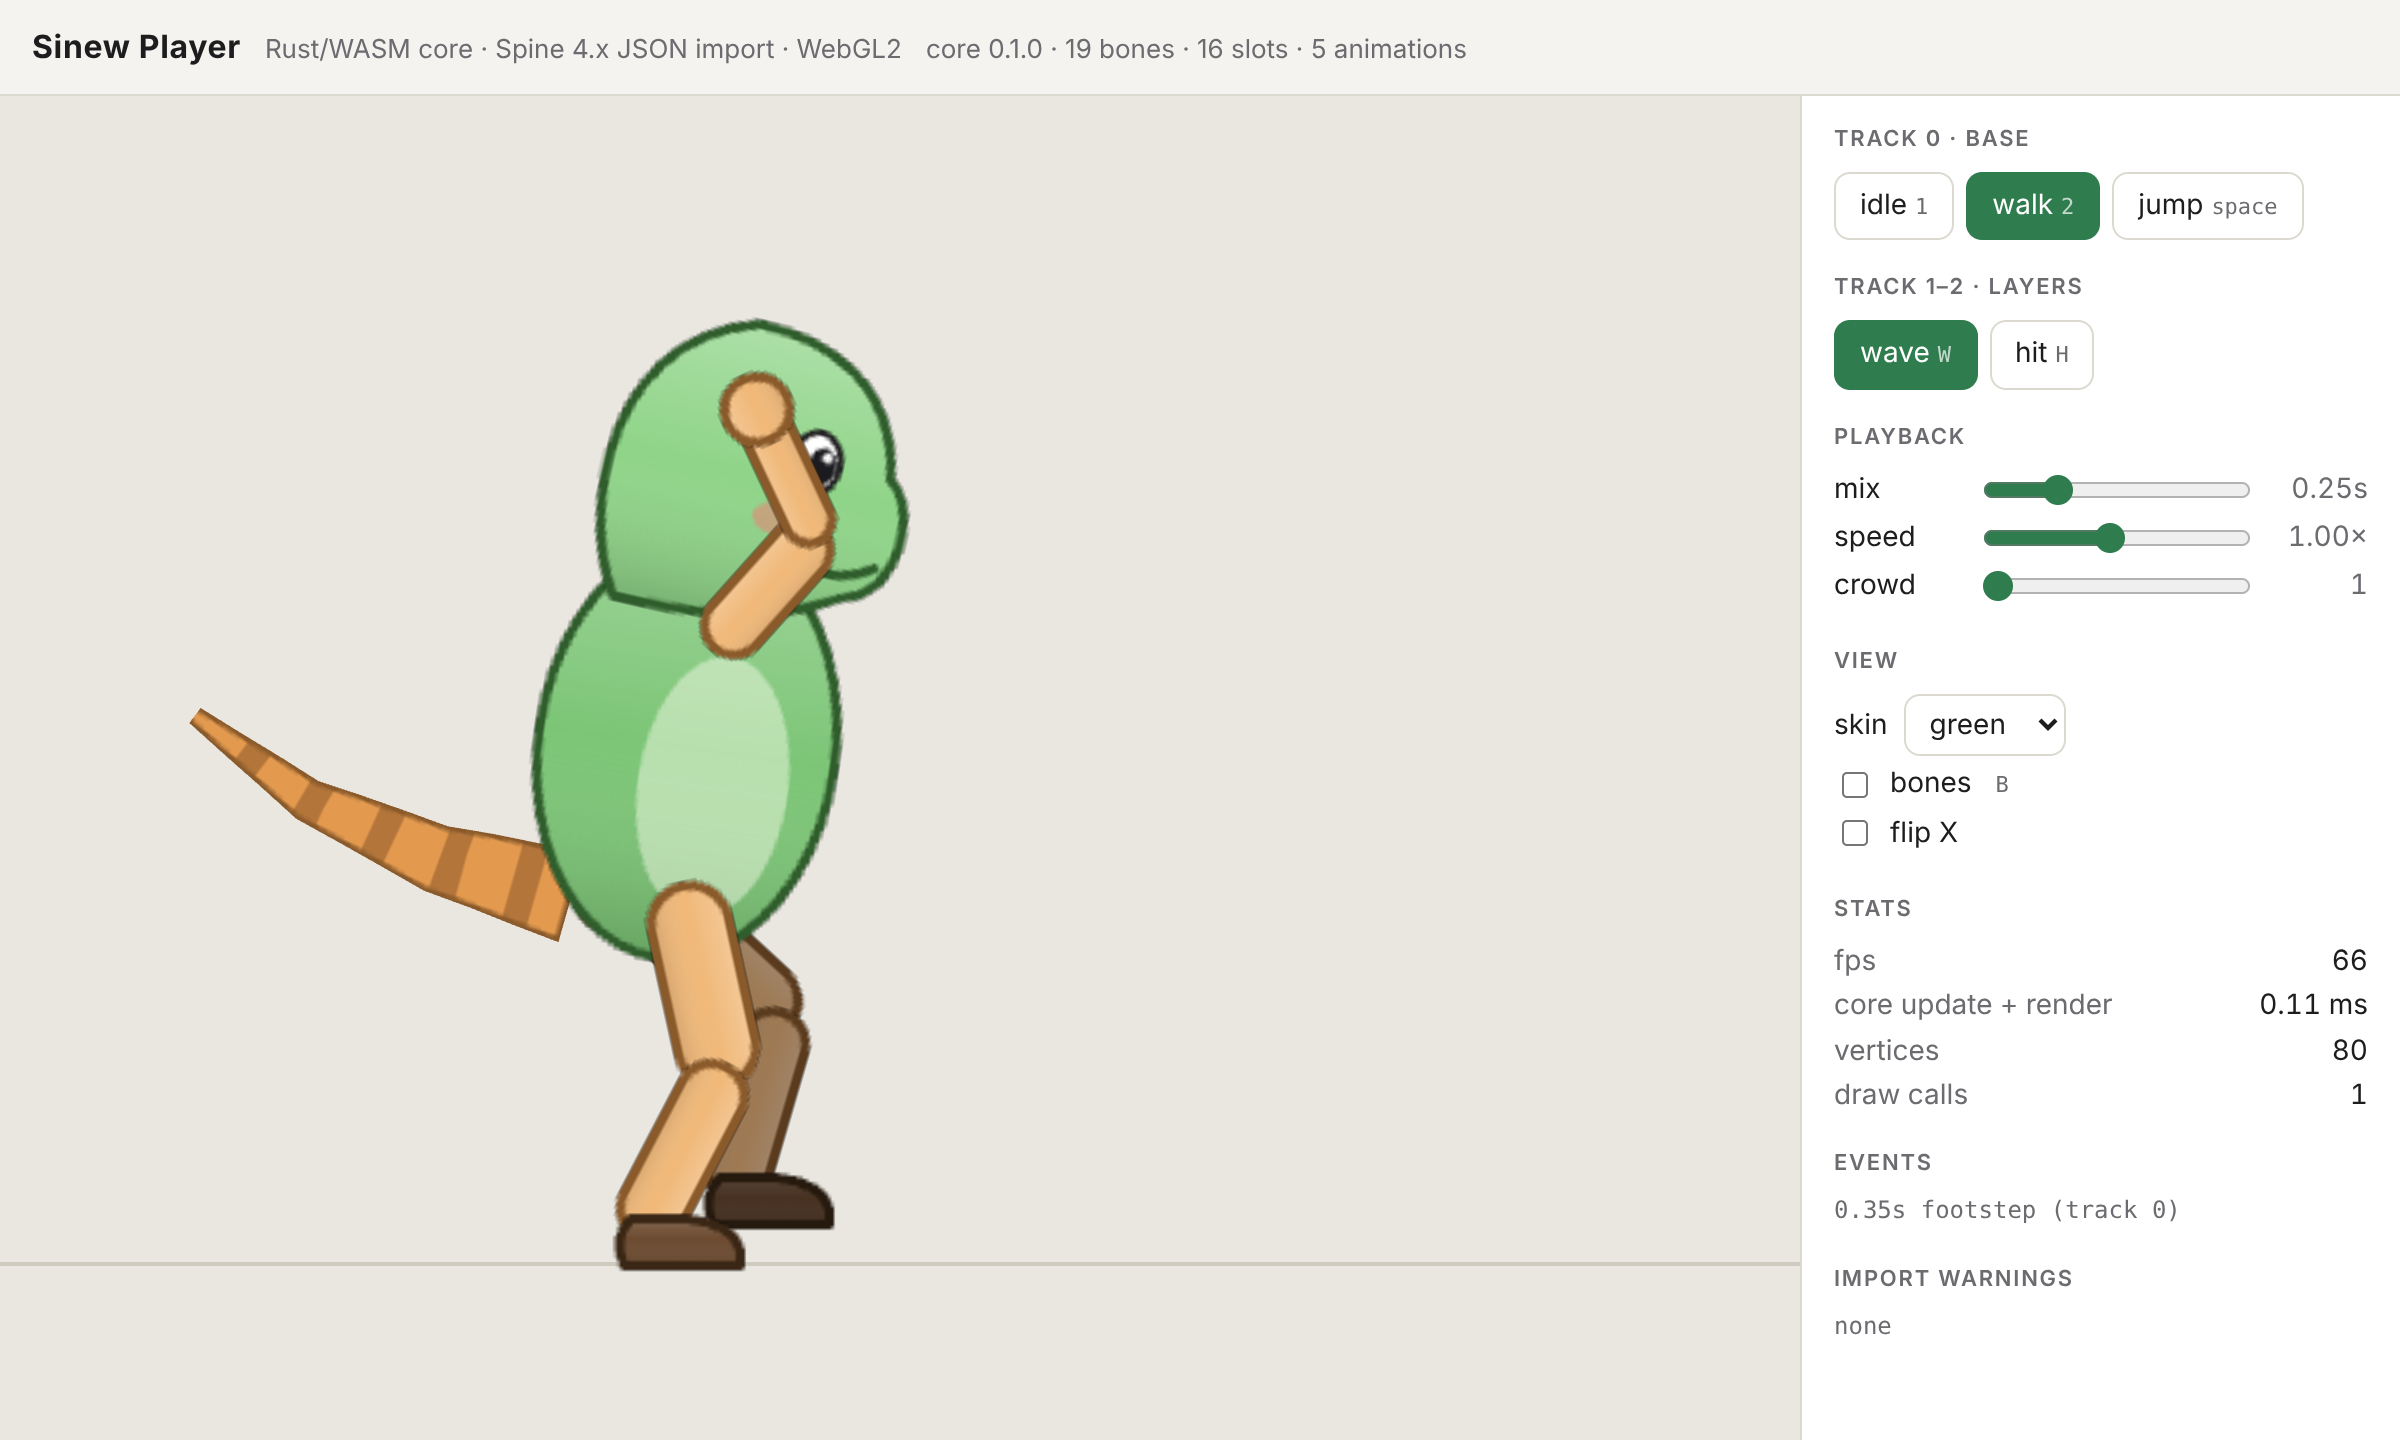
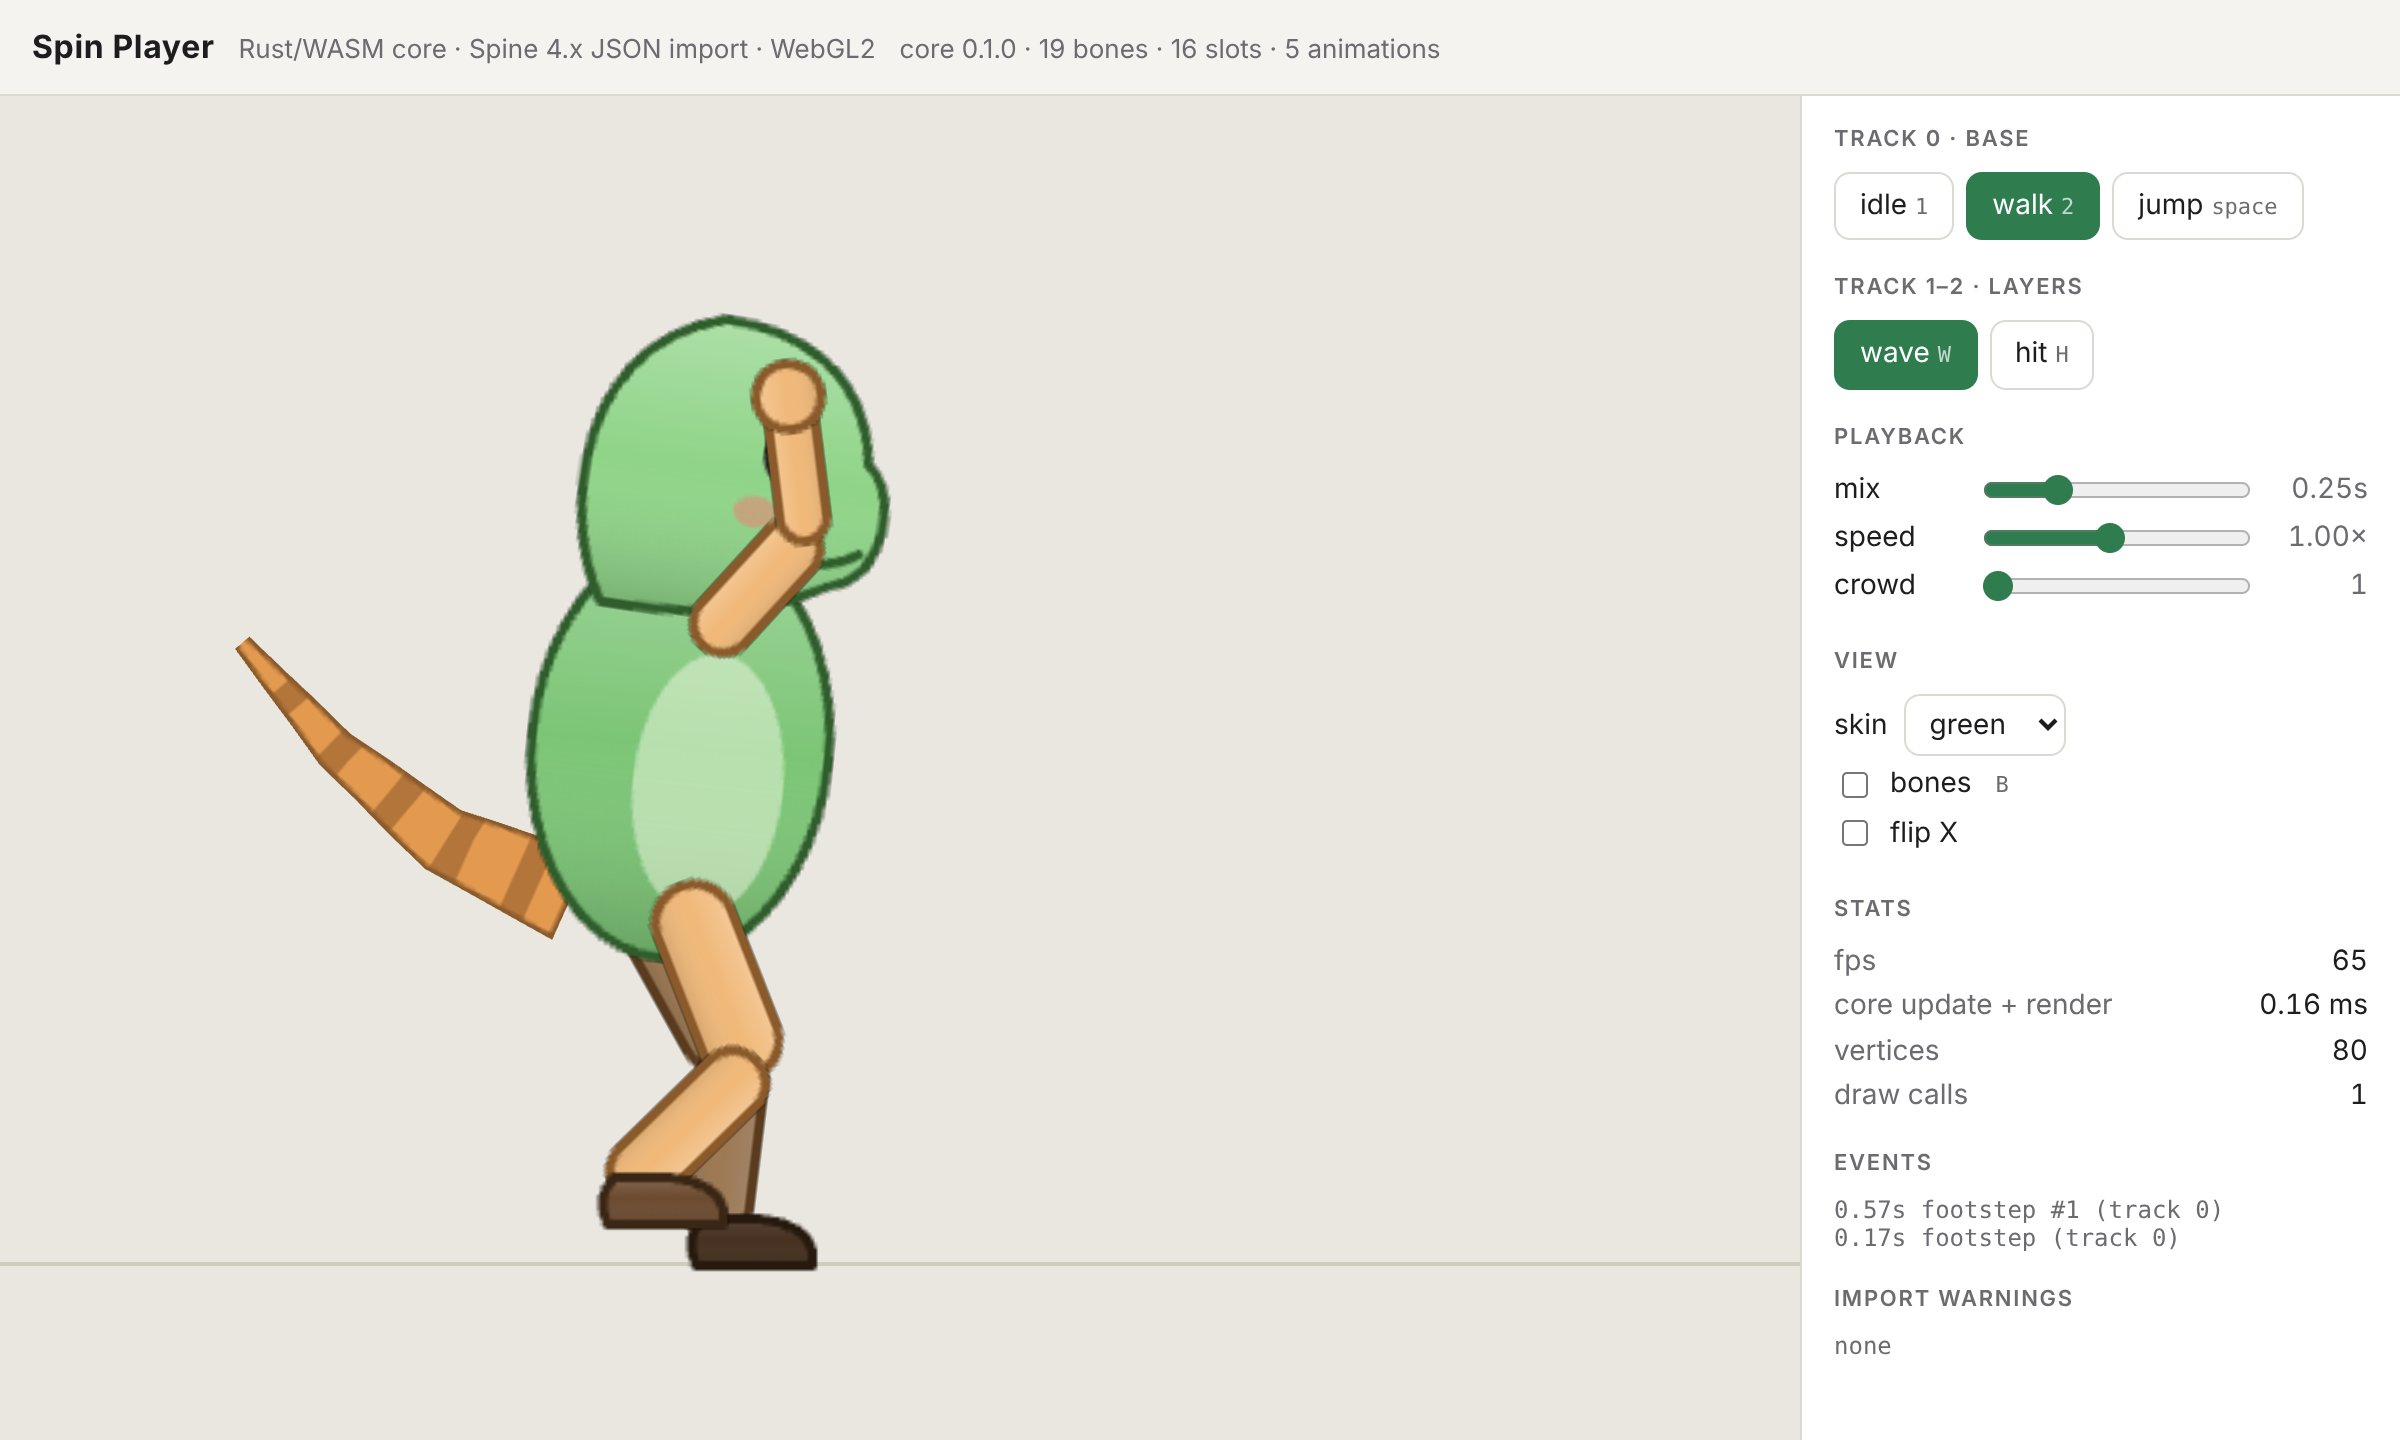
Brand: rename user-facing name to Spin (code keeps sinew codename)
Claude-Session: https://claude.ai/code/session_01Y9bTEbWH19UWAHzpRubVfw

Changed region(s): [[0.0625, 0.2188, 0.4062, 0.9062], [0.0312, 0.0, 0.5938, 0.0625], [0.75, 0.8125, 0.9062, 0.9375]]

diff --git a/web/demo/index.html b/web/demo/index.html
@@ -3,7 +3,7 @@
   <head>
     <meta charset="utf-8" />
     <meta name="viewport" content="width=device-width, initial-scale=1" />
-    <title>Sinew Player</title>
+    <title>Spin Player</title>
     <style>
       :root {
         --bg: #f4f3ef;
@@ -81,7 +81,7 @@
   <body>
     <div class="app">
       <header>
-        <h1>Sinew Player</h1>
+        <h1>Spin Player</h1>
         <span>Rust/WASM core · Spine 4.x JSON import · WebGL2</span>
         <span id="info"></span>
       </header>

diff --git a/docs/PRODUCT.md b/docs/PRODUCT.md
@@ -1,6 +1,6 @@
-# Sinew — 产品形态定稿
+# Spin — 产品形态定稿
 
-> 代号 Sinew（筋：连接骨骼与肌肉）。名称可替换，不影响架构。
+> 品牌名暂定 **Spin**。代码内部标识符沿用代号 `sinew`（crate、C ABI 前缀 `sinew_`、TS 类名），品牌最终确定后一次性替换。
 
 ## 一句话
 
@@ -23,7 +23,7 @@
 
 ## 产品五层（终局形态）
 
-### 1. Sinew Core — 单一求值内核（Rust）
+### 1. Spin Core — 单一求值内核（Rust）
 
 编辑器预览与游戏运行时是**同一份代码**，所见即所得由架构保证，而不是靠多语言移植对齐。
 
@@ -37,17 +37,17 @@
 - 渲染输出：双色 tint、PMA、混合模式、批次；后续 法线贴图 / 2D 光照 / 像素风旋转模式
 - 编译目标：WASM + 原生（C ABI），一份实现覆盖全部平台
 
-### 2. Sinew Studio — 编辑器（Web 优先，Tauri 桌面版）
+### 2. Spin Studio — 编辑器（Web 优先，Tauri 桌面版）
 
 - **Rig 模式**：骨骼、Slot、Attachment、网格编辑、自动三角化、自动权重 + 权重笔刷、约束、Skin
 - **Animate 模式**：Dopesheet、曲线编辑器（每通道独立）、Ghosting/洋葱皮、自动 K 帧、音频轨
 - **Logic 模式**：状态机图编辑、Blend Tree、输入参数面板、实时试玩（键盘/手柄驱动预览）
 - **协作**：实时多人编辑（CRDT 文档）、版本历史、分支/合并、逐帧评论、分享链接预览
 - 导入：PSD（沿用 Spine 图层标签约定）、Aseprite、Spine JSON/skel、DragonBones（后期）
-- 导出：Sinew 运行时格式、Spine JSON（子集，保证可回退）、PNG 序列 / GIF / 视频、Sprite Sheet
+- 导出：Spin 运行时格式、Spine JSON（子集，保证可回退）、PNG 序列 / GIF / 视频、Sprite Sheet
 - CLI：批量导出、CI 集成
 
-### 3. Sinew AI — 生产加速（每一步产出普通可编辑数据）
+### 3. Spin AI — 生产加速（每一步产出普通可编辑数据）
 
 | 能力 | 输入 → 输出 |
 |---|---|
@@ -60,12 +60,12 @@
 
 原则：AI 不产出视频、不产出黑盒，只产出 Studio 里可继续编辑的骨骼、网格、关键帧。
 
-### 4. Sinew Runtimes — 全部 MIT
+### 4. Spin Runtimes — 全部 MIT
 
 Web（TS + WASM）、Godot（GDExtension）、Unity（C# + native）、Unreal（C++ 插件）、Defold / Bevy / 原生 C。
 运行时不绑定编辑器授权 —— 这是对 Spine 最直接的结构性差异。
 
-### 5. Sinew Hub — 云与市场
+### 5. Spin Hub — 云与市场
 
 - 项目云存储、版本、团队权限
 - **资产市场**：Rig 模板、动作包、角色、状态机模板（动作可跨角色复用后，市场才成立）
@@ -75,7 +75,7 @@ Web（TS + WASM）、Godot（GDExtension）、Unity（C# + native）、Unreal（
 
 ## 相对 Spine 的天花板决策
 
-| 维度 | Spine | Sinew | 天花板差异 |
+| 维度 | Spine | Spin | 天花板差异 |
 |---|---|---|---|
 | 求值内核 | Java 参考实现 + 每语言手写移植 | 单一 Rust 内核 + C ABI / WASM | 新功能一次实现、全平台同步；编辑器 = 运行时 |
 | 动画通道 | 固定 timeline 类型 | 通用属性通道 | 任何新属性天然可动画 |

diff --git a/docs/ARCHITECTURE.md b/docs/ARCHITECTURE.md
@@ -71,5 +71,5 @@ reset pose → setup
 
 - 依据：官方公开的 JSON / binary 格式文档、用户手册中描述的行为语义。
 - 不复制、不移植 Spine Runtimes 源码；不反编译 Spine 编辑器。
-- 数值一致性用对照测试衡量：用户本机用自有 Spine 授权与官方 runtime 渲染同一资源，与 Sinew 输出做像素比对。
+- 数值一致性用对照测试衡量：用户本机用自有 Spine 授权与官方 runtime 渲染同一资源，与 Spin 输出做像素比对。
 - 公式在边界情况（非均匀缩放下的 IK、非 normal 继承模式）为独立推导，以对照测试结果迭代。

diff --git a/README.md b/README.md
@@ -1,4 +1,4 @@
-# Sinew
+# Spin
 
 面向独立团队的 2D 骨骼动画平台。产品形态见 [docs/PRODUCT.md](docs/PRODUCT.md)，架构见 [docs/ARCHITECTURE.md](docs/ARCHITECTURE.md)，路线图见 [docs/ROADMAP.md](docs/ROADMAP.md)。
 
